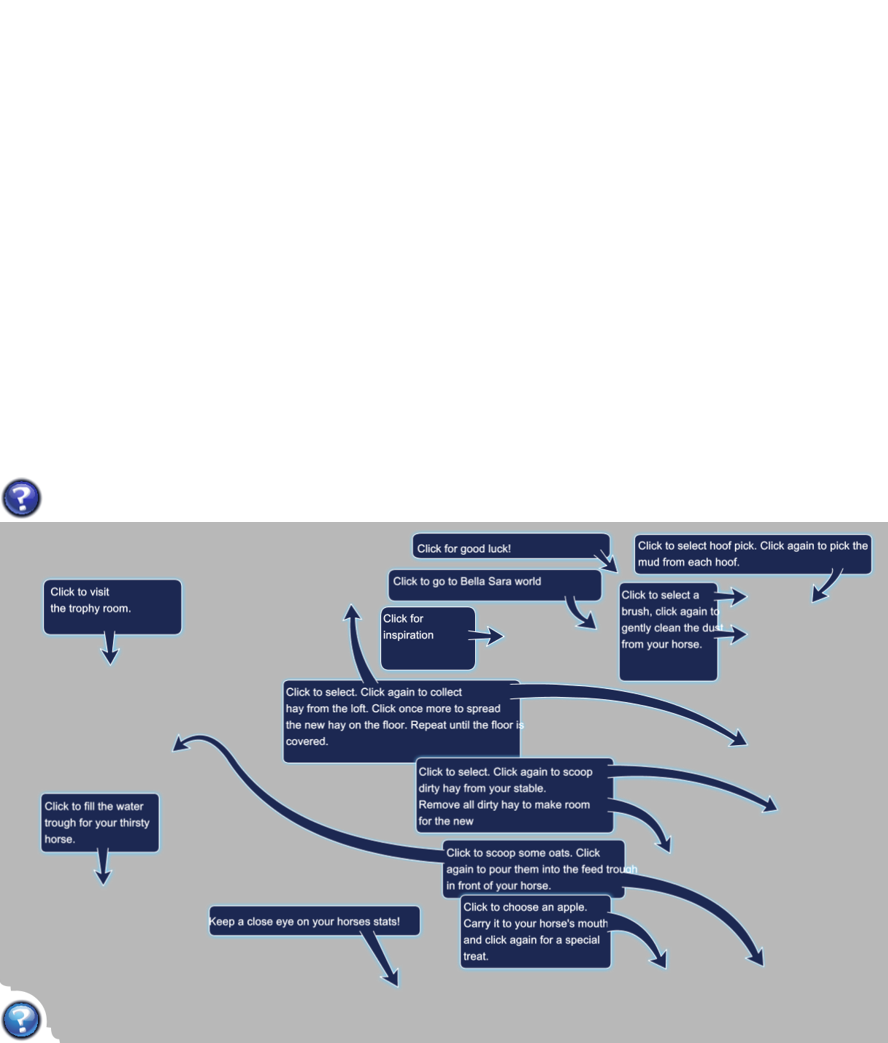
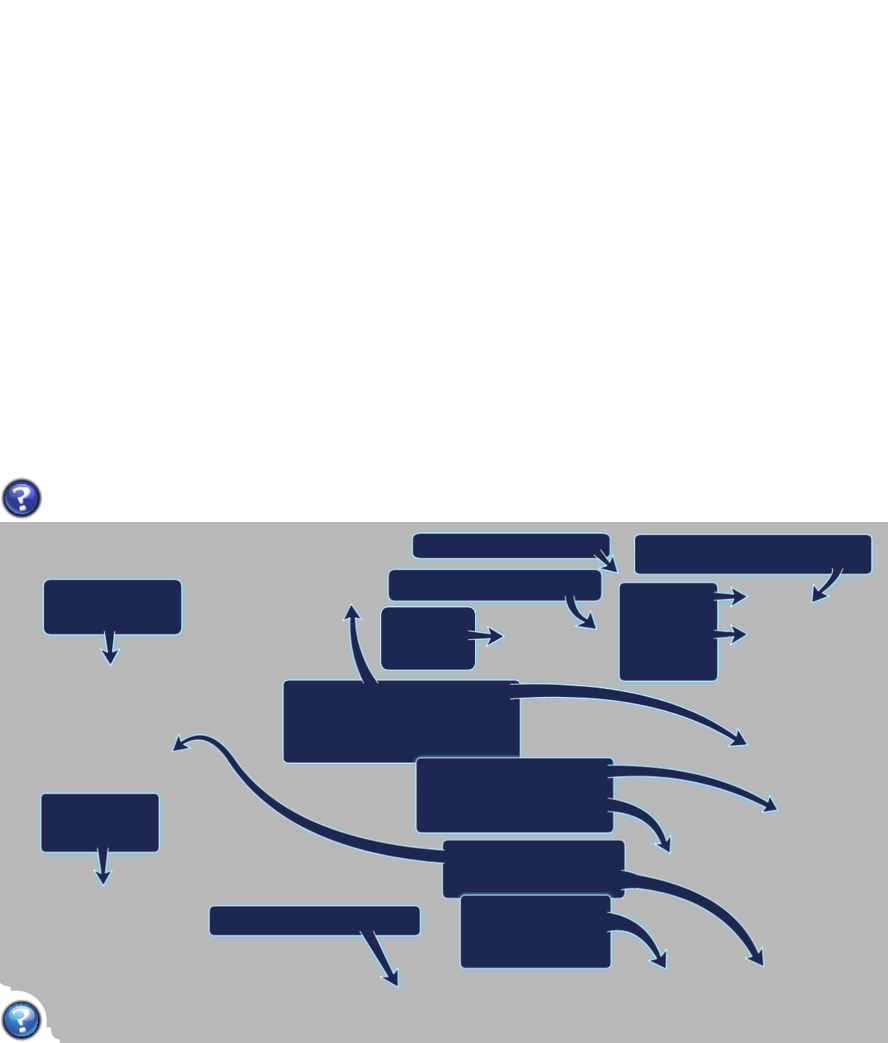
Add help loca land stables

diff --git a/public/stablesrecreation/js/landStable.js b/public/stablesrecreation/js/landStable.js
@@ -968,10 +968,74 @@ class LandStable extends Phaser.Scene
             });
             musicButton.on('pointerover', function (pointer) { this.setFrame(`music_${playMusic ? 'on' : 'off'}_hover`) });
             musicButton.on('pointerout', function (pointer) { this.setFrame(`music_${playMusic ? 'on' : 'off'}`) });
+
         // help button
+        var helpPopups = [];
+        function showLocalizedHelpTexts(xPos, yPos, localeTxtKey, settings, scene)
+        {
+            const helpTxt = scene.add.text(xPos, yPos, 'Static Text Object', settings).setAlpha(0);
+            helpTxt.text = localeTxtKey;
+            helpTxt.setOrigin(0.5)
+            helpPopups.push(helpTxt);
+        }
+
         const helpButton = this.add.sprite(444, 261, 'help_button', 'idle').setInteractive(this.input.makePixelPerfect(150));
-            helpButton.on('pointerover', function (pointer) { this.setFrame('help') });
-            helpButton.on('pointerout', function (pointer) { this.setFrame('idle') });
+            const hoverTextSettingsHelp = {
+                font: 'bold 12px Arial', 
+                align: 'center',
+                color: '#ffffff',
+                wordWrap: {width: 100},
+                lineSpacing: -2
+            }
+
+            const hoverTextSettingsOneLine = {
+                font: 'bold 11px Arial', 
+                align: 'center',
+                color: '#ffffff',
+            }
+
+            const hoverTextSettingsBigBox = {
+                font: 'bold 12px Arial', 
+                align: 'center',
+                color: '#ffffff',
+                wordWrap: {width: 200},
+                lineSpacing: -2
+            }
+            
+            const hoverTextSettingsMediumBox = {
+                font: 'bold 12px Arial', 
+                align: 'center',
+                color: '#ffffff',
+                wordWrap: {width: 150},
+                lineSpacing: -2
+            }
+
+            showLocalizedHelpTexts(115, 85, localeData.txtHelpTrophyRoom, hoverTextSettingsHelp, this);
+            showLocalizedHelpTexts(103, 300, localeData.txtHelpWater, hoverTextSettingsHelp, this);
+            showLocalizedHelpTexts(315, 400, localeData.txtHelpStats, hoverTextSettingsOneLine, this);
+            showLocalizedHelpTexts(400, 200, localeData.txtHelpPitchFork, hoverTextSettingsBigBox, this);
+            showLocalizedHelpTexts(427, 115, localeData.txtHelpInspiration, hoverTextSettingsHelp, this);
+            showLocalizedHelpTexts(515, 270, localeData.txtHelpShovel, hoverTextSettingsBigBox, this);
+            showLocalizedHelpTexts(537, 410, localeData.txtHelpApple, hoverTextSettingsMediumBox, this);
+            showLocalizedHelpTexts(535, 345, localeData.txtHelpOats, hoverTextSettingsMediumBox, this);
+            //showLocalizedHelpTexts(792, 243, localeData.txtHelpBottle, hoverTextSettingsHelp, this);
+            showLocalizedHelpTexts(490, 63, localeData.txtHelpWorld, hoverTextSettingsOneLine, this);
+            showLocalizedHelpTexts(755, 33, localeData.txtHelpHoofPick, hoverTextSettingsBigBox, this);
+            showLocalizedHelpTexts(670, 107, localeData.txtHelpBrush, hoverTextSettingsHelp, this);
+            showLocalizedHelpTexts(507, 23, localeData.txtHelpLuck, hoverTextSettingsOneLine, this);
+
+            helpButton.on('pointerover', function (pointer) { 
+                this.setFrame('help') 
+                helpPopups.forEach(helpTxt => {
+                    helpTxt.setAlpha(1);
+                });
+            });
+            helpButton.on('pointerout', function (pointer) { 
+                this.setFrame('idle') 
+                helpPopups.forEach(helpTxt => {
+                    helpTxt.setAlpha(0);
+                });
+            });
 
 
         // Progress bars
